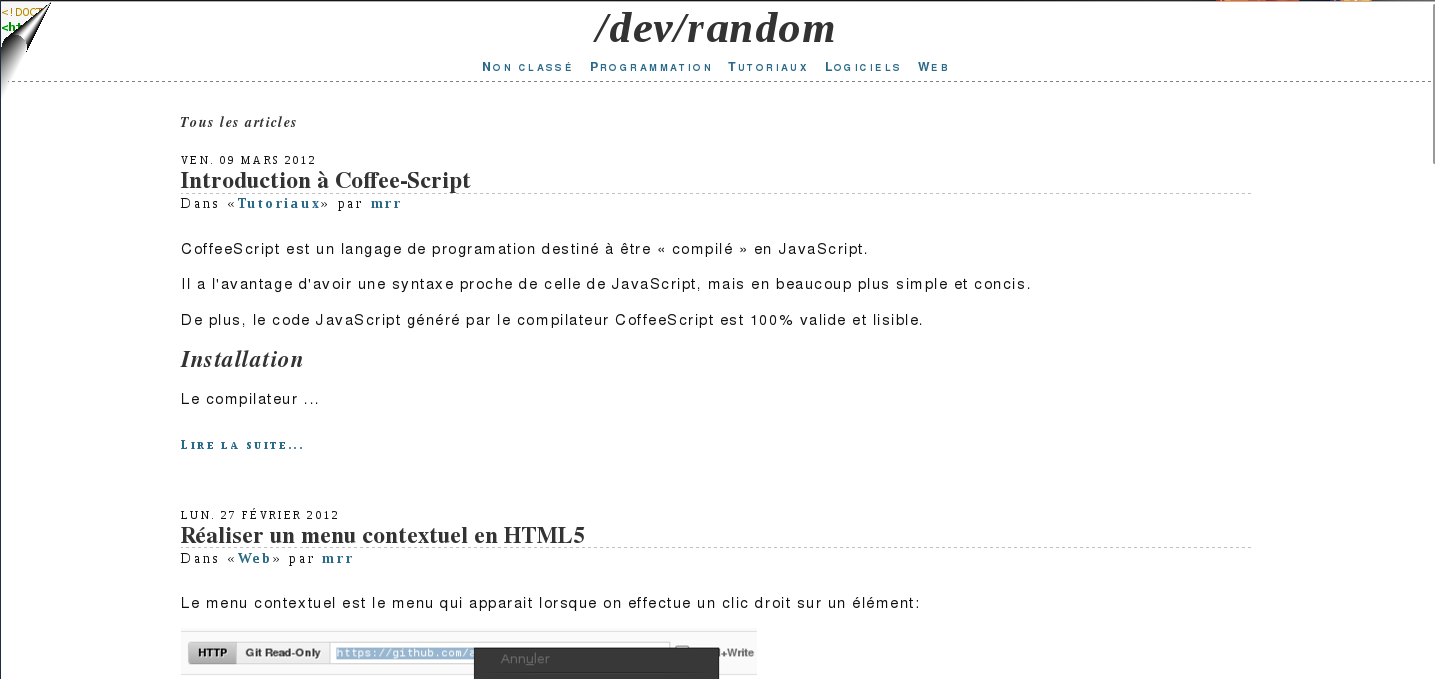
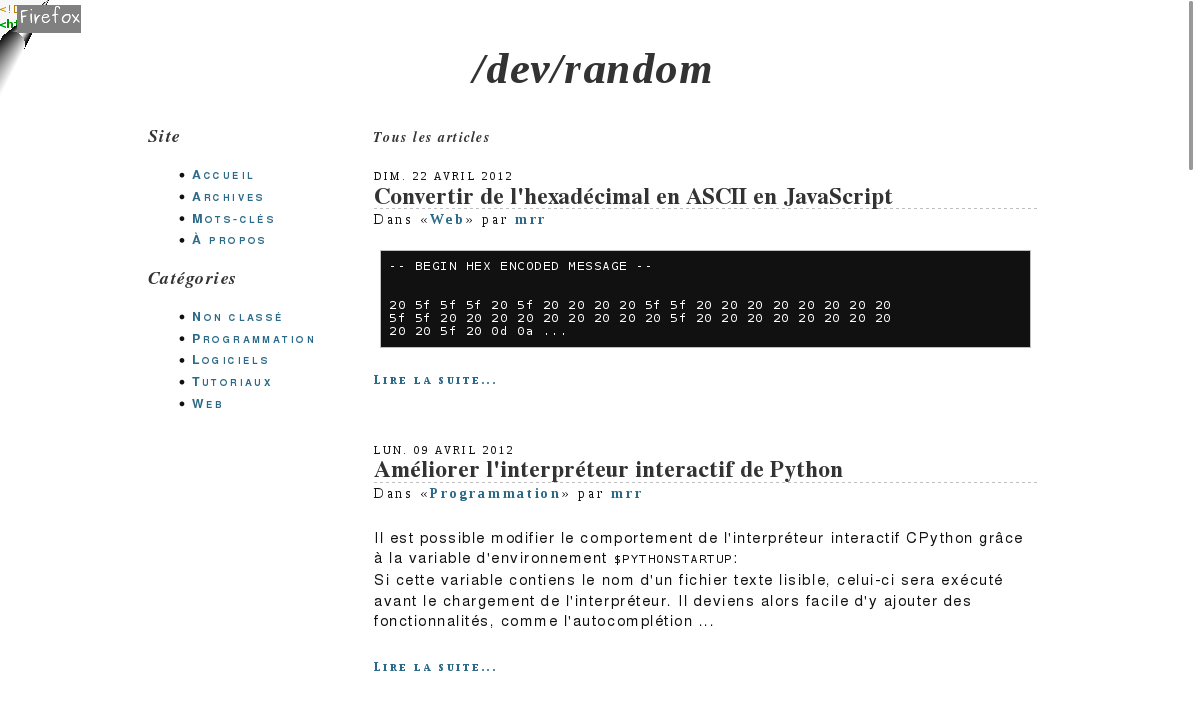
New layout

diff --git a/templates/base.html b/templates/base.html
@@ -4,7 +4,8 @@
   {% block headers %}
     <meta charset="utf-8" />
     <title>{% block title %}{{ SITENAME }}{%endblock%}</title>
-    <link rel="stylesheet" type="text/css" href="{{ SITEURL }}/theme/css/{{ CSS_FILE }}" />
+    <link rel="stylesheet" type="text/css" href="{{ SITEURL }}/theme/css/skeleton.css" />
+    <link rel="stylesheet" type="text/css" href="{{ SITEURL }}/theme/css/main.css" />
     <link rel="shortcut icon" type="text/css" href="{{ SITEURL }}/favicon.ico" />
     <link rel="alternate" type="application/atom+xml"
                            title="{{ SITENAME }} — Flux Atom"
@@ -42,47 +43,23 @@
   {% endblock headers %}
   </head>
   <body> 
-    <!--[if lt IE 7]>
-    <div style="font-size: small; background-color: black; color: white; position: fixed; bottom: 0; left: 0; right: 0;border-bottom: 1px solid gray; padding: 2px 5px;"
-         id="outdated">Il est recommandé d'utiliser un navigateur Web
-         moderne, comme <a href="http://www.mozilla.com/firefox/">Mozilla
-         Firefox</a> ou <a href="http://www.google.com/chrome/">Google
-         Chrome</a> pour voir ce site
+    <div class="page">
+      <header class="head">
+        <h1>
+          <a href="{{ SITEURL }}/index.html">{{ SITENAME }}</a>
+        </h1>
+      </header>
+
+      <div class="main">
+        {% include "includes/sidebar.html" %} 
+        {% block content %}
+        {% endblock content %}
+      </div>
+
+      <footer class="foot">
+        <p> {{ FOOTER_TEXT or 'Powered by <a href="http://pelican.readthedocs.org">Pelican</a>' }}</p>
+        {% if GITHUB_URL %}<p><a id="github-link" href="{{ GITHUB_URL}}">Fork me on Github</a></p>{% endif %}
+      </footer>
     </div>
-    <![endif]-->
-    <header id="page-header">
-      <h1>
-        <a href="{{ SITEURL }}/index.html">{{ SITENAME }}</a>
-      </h1>
-    </header>
-
-    <nav id="page-menu">
-      <ul>
-        <li><a href="{{ SITEURL }}/index.html">Accueil</a></li>
-      {% for title, link in MENUITEMS %}
-        <li><a href="{{ link|format(SITEURL) }}">{{ title }}</a></li>
-      {% endfor %}
-      {% if DISPLAY_PAGES_ON_MENU %}
-        <li><a href="{{ SITEURL }}/categories.html">Catégories</a></li>
-        {% for p in PAGES %}
-        <li {% if p == page %}class="active"{% endif %}><a href="{{ SITEURL }}/{{ p.url|e }}">{{ p.title }}</a></li>
-        {% endfor %}
-      {% else %}
-        {% for cat, null in categories %}
-        <li {% if cat == category %}class="active"{% endif %}><a href="{{ SITEURL }}/{{ cat.url|e }}">{{ cat }}</a></li>
-        {% endfor %}
-      {% endif %}
-        <li><a href="{{ SITEURL }}/archives.html">Archives</a></li>
-        <li><a href="{{ SITEURL }}/tags.html">Mots-clés</a></li>
-      </ul>
-    </nav>
-    
-    {% block content %}
-    {% endblock content %}
-
-    <footer id="page-footer">
-      <p> {{ FOOTER_TEXT or 'Powered by <a href="http://pelican.readthedocs.org">Pelican</a>' }}</p>
-      {% if GITHUB_URL %}<p><a id="github-link" href="{{ GITHUB_URL}}">Fork me on Github</a></p>{% endif %}
-    </footer>
   </body>
 </html>

diff --git a/static/css/main.css b/static/css/main.css
@@ -84,73 +84,21 @@ pre {
 }
 
 
-/******************************************************************************/
-/*                               Page Structure                               */
-/******************************************************************************/
-
-#page-header {
-    width: 60%;
-    margin: 1em auto 1em auto;
-
-    text-align: center;
-}
-
-
-#page-menu {
-    width: 100%;
-    margin: 0 0 2em 0;
-    padding: .2em 0em;
-
-    border-bottom: thin dashed gray;
-
-    text-align: center;
-}
-
-
-#page-content {
-    display: block;
-    width: 75%;
-    margin-left: auto;
-    margin-right: auto;
-}
-
-
-#page-footer {
-    width: 100%;
-    margin-top: 2em;
-
-    border-top: thin dashed gray;
-
-    font-size: .7em;
-    font-weight: lighter;
-}
-
 
 /******************************************************************************/
 /*                              Specific Styles                               */
 /******************************************************************************/
 
 
-#page-header h1 {
-    margin: .2em auto .2em auto;
+.page .head h1 {
+    margin: .7em auto;
 
     font-family: Georgia, "Times New Roman", Times, serif;
     font-size: 2.8em;
+    text-align: center;
 }
 
-#page-menu ul {
-    display: inline;
-    margin: 0;
-    padding: 0;
-
-    list-style-type: none;
-}
-
-#page-menu ul li {
-    display: inline;
-}
-
-#page-menu ul li a {
+.widget ul li {
     margin: .1em .4em;
 
     font-size: 0.8em;
@@ -159,12 +107,12 @@ pre {
     font-variant: small-caps;
 }
 
-#page-content #page-title {
+.content #page-title {
     font-size: .9em;
 }
 
 
-.post {
+.content .post {
     clear: both;
     margin: 1em 0 3em 0;
 }
@@ -237,7 +185,7 @@ pre {
 }
 
 
-#page-footer p {
+.page .foot p {
     display: block;
     width: 60%;
 

diff --git a/templates/includes/sidebar.html b/templates/includes/sidebar.html
@@ -1,0 +1,46 @@
+    <aside class="sidebar">
+      <nav class="widget">
+      <h3>Site</h3>
+        <ul>
+          <li><a href="{{ SITEURL }}">Accueil</a></li>
+          <li><a href="{{ SITEURL }}/archives.html">Archives</a></li>
+          <li><a href="{{ SITEURL }}/tags.html">Mots-clés</a></li>
+        {% if MENUITEMS %}
+          {% for name, uri in MENUITEMS %}
+          <li><a href="{{ uri|format(SITEURL)|e}}">{{ name }}</a></li>
+          {% endfor %}
+        {% endif %}
+        {% if DISPLAY_PAGES_ON_MENU %}
+          {% for p in PAGES %}
+          <li><a href="{{ SITEURL}}/{{ p.url|e }}"{% if p == page %} class="active"{% endif %}>{{ p.title }}</a></li>
+          {% endfor %}
+        {% endif %}
+        </ul>
+      </nav>
+
+     {% if categories %}
+      <nav class="widget">
+        <h3>Catégories</h3>
+        <ul>
+        {% for cat, null in categories %}
+          <li><a href="{{ SITEURL }}/{{ cat.url|e }}">{{ cat }}</a></li>
+        {% endfor %}
+        </ul>
+      </nav>
+      {% endif %}
+
+      {% if SOCIAL %}
+      <nav class="widget">
+        <h3>Social</h3>
+        <ul>
+        {% for url, name in SOCIAL %}
+          <li><a href="{{ url|e }}">{{ name }}</a></li>
+        {% endfor %}
+          <li><a href="{{ SITEURL }}/{{ FEED }}" rel="alternate">Flux Atom</a></li>
+        {% if FEED_RSS %}
+          <li><a href="{{ SITEURL }}/{{ FEED_RSS }}" rel="alternate">Flux RSS</a></li>
+        {% endif %}
+        </ul>
+      </nav>
+      {% endif %}
+    </aside>

diff --git a/static/css/skeleton.css b/static/css/skeleton.css
@@ -1,0 +1,68 @@
+
+.page {
+  display: block;
+  margin-top: 5%;
+}
+
+.page .head,
+.page .main,
+.page .foot {
+  display: block;
+  width: 100%;
+  clear: both;
+}
+
+.page .main {
+  display: table;
+  border-collapse: separate;
+  border-spacing: .5%;
+  width: 75%;
+  margin: .5em auto;
+  clear: both;
+}
+
+.page .main .sidebar {
+  display: table-cell;
+  width: 25%;
+}
+
+.page .main .content {
+  display: table-cell;
+  width: 74%;
+}
+
+@media screen and (max-width: 800px) {
+  .page  .main {
+    width: 100%;
+    clear: both;
+  }
+}
+
+@media screen and (max-width: 700px) {
+  .page .main {
+    display: block;
+  }
+
+  .page .main .sidebar,
+  .page .main .content {
+    display: block;
+    margin: 0 .5em;
+    width: 100%;
+    clear: both;
+  }
+
+  .widget {
+    display: block;
+  }
+
+  .widget ul,
+  .widget li {
+    display: inline;
+  } 
+
+  .widget h3 { display: none; }
+}
+
+@media print {
+  .sidebar { display: none; }
+}

diff --git a/templates/article.html b/templates/article.html
@@ -9,7 +9,7 @@
 {% block title %}{{ article.title }} — {{ super() }}{% endblock %}
 
 {%- block content %}
-     <article class="post" id="page-content">
+     <article class="post content">
       <header class="post-header">
         <time datetime="{{ article.date.isoformat() }}" pubdate="pubdate">
           {{ article.locale_date }}

diff --git a/templates/index.html b/templates/index.html
@@ -1,7 +1,7 @@
 {% extends "base.html" %}
 
 {%- block content %}
-    <section id="page-content">
+    <section class="content">
       <h1 id="page-title">{% block index_title %}Tous les articles{% endblock index_title %}</h1>
      
          {% for article in articles_page.object_list %}        

diff --git a/templates/categories.html b/templates/categories.html
@@ -3,7 +3,7 @@
 {% block title %}{{ super() }} — Catégories{% endblock title %}
 
 {%- block content %}
-    <section id="page-content">
+    <section class="content">
       <h1>Catégories</h1>
       <ul id="category-list">
       {% for category, n in categories %}

diff --git a/templates/tags.html b/templates/tags.html
@@ -3,7 +3,7 @@
 {% block title %}{{ super() }} — Mots-clés{% endblock title %}
 
 {%- block content %}
-    <section id="page-content">
+    <section class="content">
       <h1>Mots-clés</h1>
       <ul id="tagslist">
       {% for tag in tag_cloud %}

diff --git a/templates/page.html b/templates/page.html
@@ -3,7 +3,7 @@
 {% block title %}{{ super() }} — {{ page.url }}{% endblock title %}
 
 {%- block content %}
-    <section id="page-content">
+    <section class="content">
       <h1>{{ page.title }}</h1>
       {{ page.content }}
     </section>

diff --git a/templates/archives.html b/templates/archives.html
@@ -3,7 +3,7 @@
 {% block content_title %}{{ SITENAME }} — Archives{% endblock %}
 
 {%- block content %}
-    <section id="page-content">
+    <section class="content">
       <h1>Archives</h1>
        <dl>
        {% for article in articles %}
